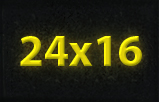
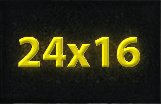
исправлены изображения с ретиной

diff --git a/Miner/Controllers/BGOptionsViewController.m b/Miner/Controllers/BGOptionsViewController.m
@@ -40,7 +40,7 @@
     UIImage *backNormal = [UIImage imageNamed:@"back"];
     UIImage *backHighlighted = [UIImage imageNamed:@"back_down"];
     UIButton *back = [[UIButton alloc]
-            initWithFrame:CGRectMake(14, 22, backNormal.size.width, backNormal.size.height)];
+                                initWithFrame:CGRectMake(14, 22, backNormal.size.width, backNormal.size.height)];
     [back setImage:backNormal forState:UIControlStateNormal];
     [back setImage:backHighlighted forState:UIControlStateHighlighted];
     [back addTarget:self
@@ -51,7 +51,7 @@
 
 //    создаем подпись к элементу изменения размера поля
     UIImageView *fieldSizeImageView = [[UIImageView alloc]
-            initWithImage:[UIImage imageNamed:@"field_size"]];
+                                                    initWithImage:[UIImage imageNamed:@"field_size"]];
     CGRect fieldSizeRect = fieldSizeImageView.bounds;
     fieldSizeImageView.frame = CGRectMake(88, 70, fieldSizeRect.size.width, fieldSizeRect.size.height);
 
@@ -81,7 +81,7 @@
 
 //    создаем подпись к элементу изменения сложности игры
     UIImageView *difficultyImageView = [[UIImageView alloc]
-            initWithImage:[UIImage imageNamed:@"difficulty"]];
+                                                     initWithImage:[UIImage imageNamed:@"difficulty"]];
     CGRect difficultyRect = difficultyImageView.bounds;
     difficultyImageView.frame = CGRectMake(102, 169, difficultyRect.size.width, difficultyRect.size.height);
 
@@ -111,9 +111,9 @@
 
 //    создаем подпись к переключателю звука
     UIImageView *soundImageView = [[UIImageView alloc]
-            initWithImage:[UIImage imageNamed:@"sounds"]];
+                                                initWithImage:[UIImage imageNamed:@"sounds"]];
     CGRect soundsBounds = soundImageView.bounds;
-    soundImageView.frame = CGRectMake(60, 372.5, soundsBounds.size.width, soundsBounds.size.height);
+    soundImageView.frame = CGRectMake(55.5, 372.5, soundsBounds.size.width, soundsBounds.size.height);
 
     [self.originalContentView addSubview:soundImageView];
 
@@ -130,7 +130,7 @@
 
 //    создаем подпись к переключателю рекламы
     UIImageView *adsImageView = [[UIImageView alloc]
-            initWithImage:[UIImage imageNamed:@"ads"]];
+                                              initWithImage:[UIImage imageNamed:@"ads"]];
     CGRect adsBounds = adsImageView.bounds;
     adsImageView.frame = CGRectMake(208, 372.5, adsBounds.size.width, adsBounds.size.height);
 
